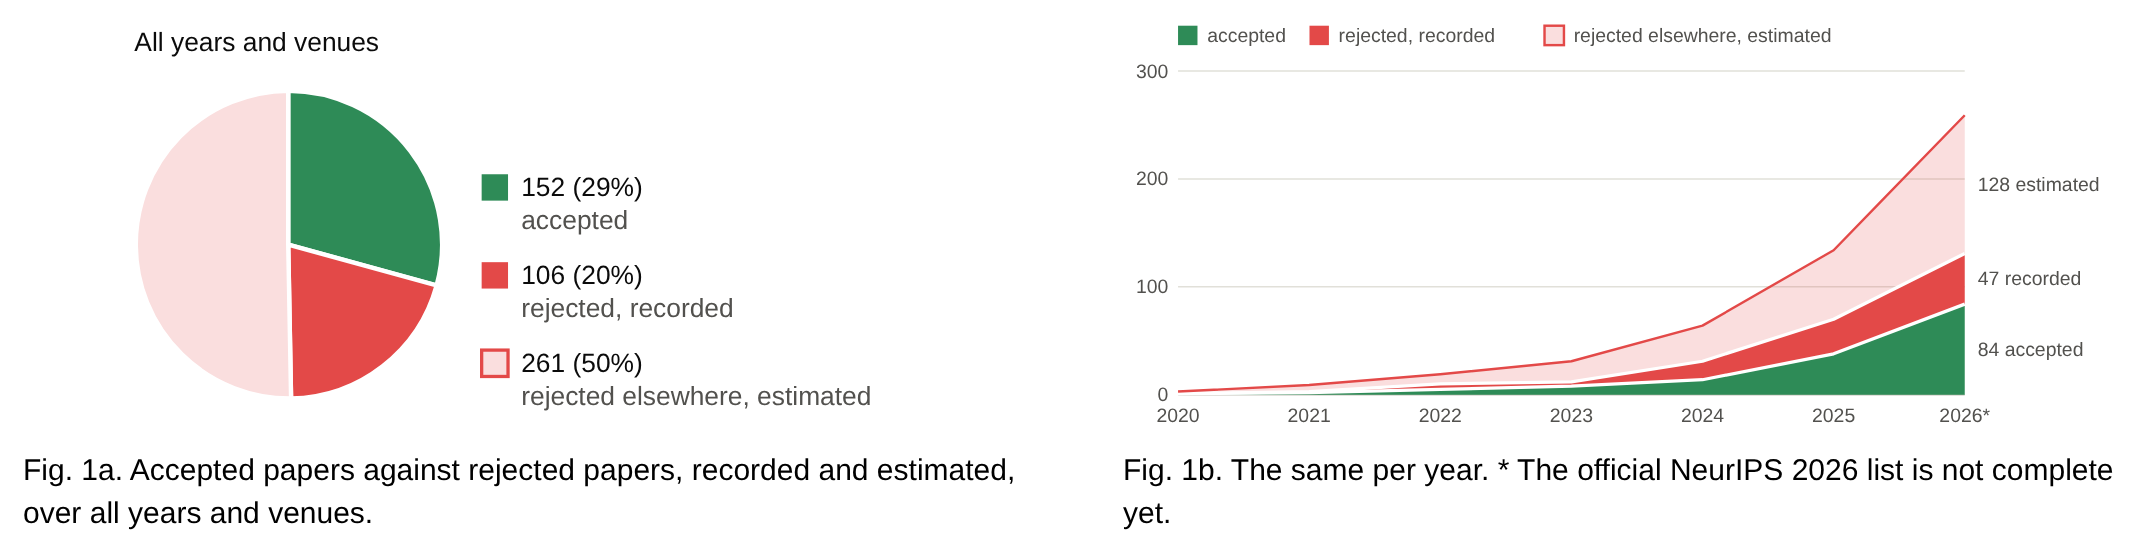
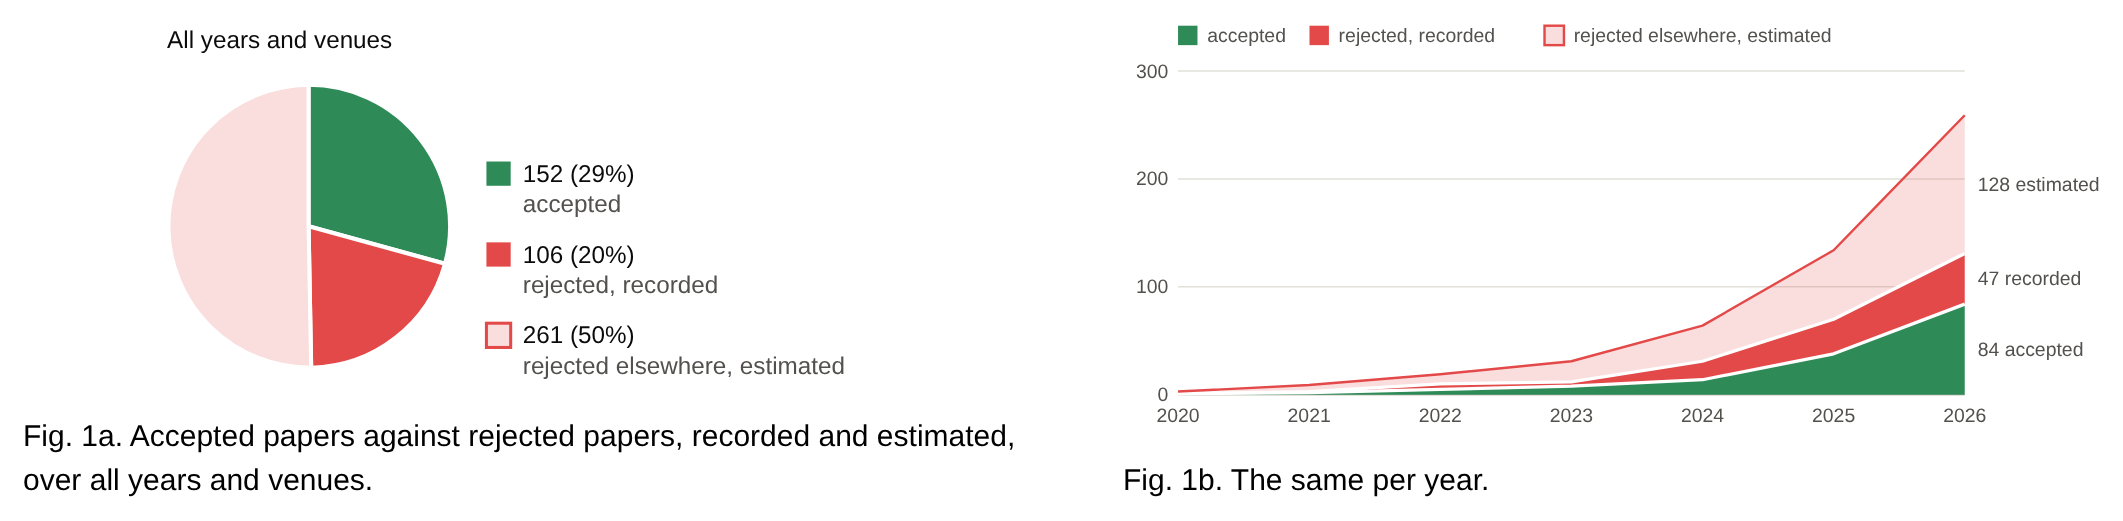
Fig. 1b without the note on the provisional NeurIPS 2026 list

diff --git a/frontend/layouts/index.html b/frontend/layouts/index.html
@@ -22,7 +22,7 @@
 </figure>
 <figure>
 {{ index . (cond (eq site.Language.Lang "vi") "stack_vi" "stack") | safeHTML }}
-<figcaption>{{ T "home_fig2" }}{{ with .provisional_lists }}{{ T "home_fig2_provisional" (delimit . ", ") }}{{ end }}</figcaption>
+<figcaption>{{ T "home_fig2" }}</figcaption>
 </figure>
 </div>
 <details>

diff --git a/backend/charts.py b/backend/charts.py
@@ -210,7 +210,7 @@ def stacked_area(label, years, series, provisional=(), short=None, words=None):
                    f'y2="{y:.1f}"/><text x="{left - 6}" y="{y + 4:.1f}" text-anchor="end">{value}</text>')
         value += step
     for x, year in zip(xs, years):
-        out.append(f'<text x="{x:.1f}" y="{base + 17}" text-anchor="middle">{year}{"*" if year in provisional else ""}</text>')
+        out.append(f'<text x="{x:.1f}" y="{base + 17}" text-anchor="middle">{year}</text>')
 
     lower = [0.0] * len(years)
     edges, ends = [], []
